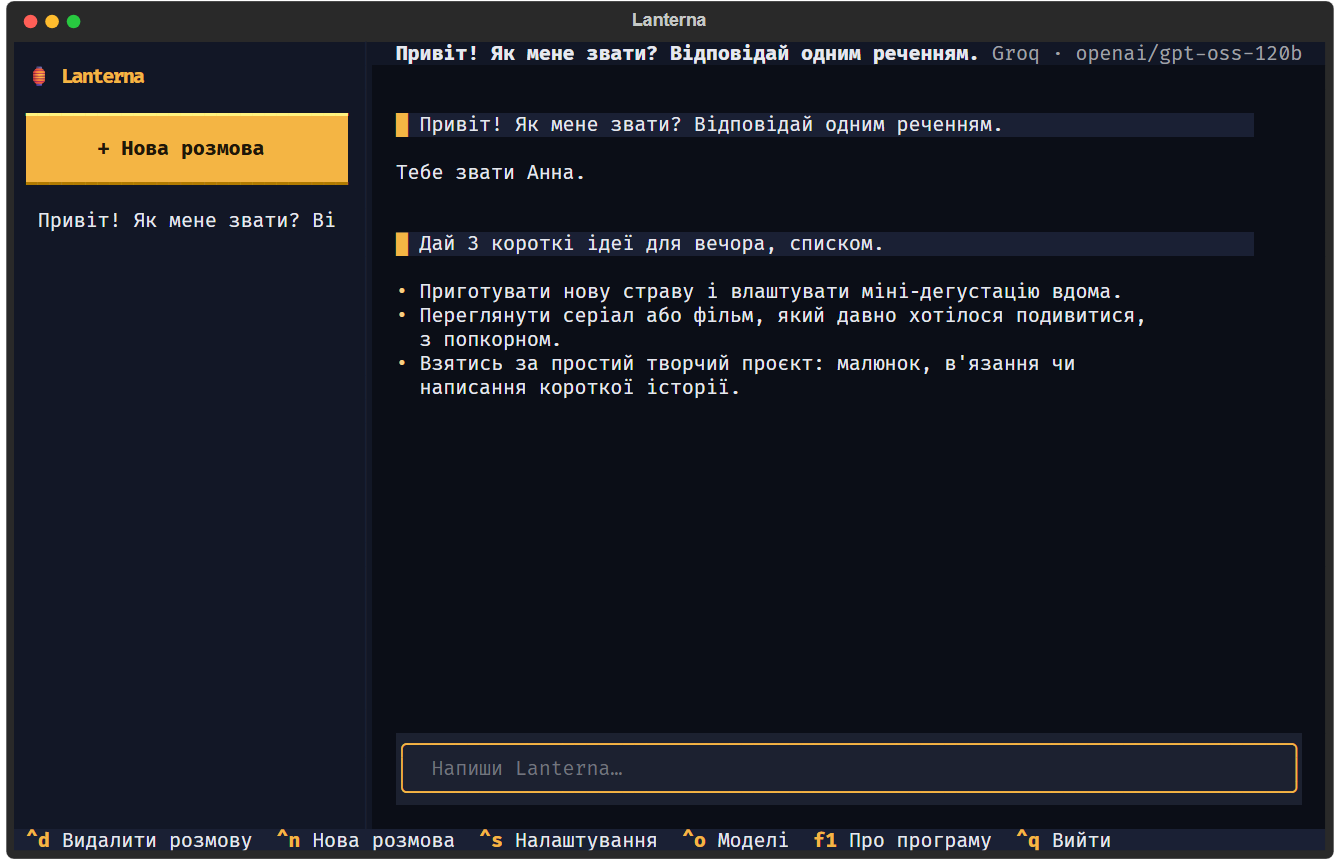
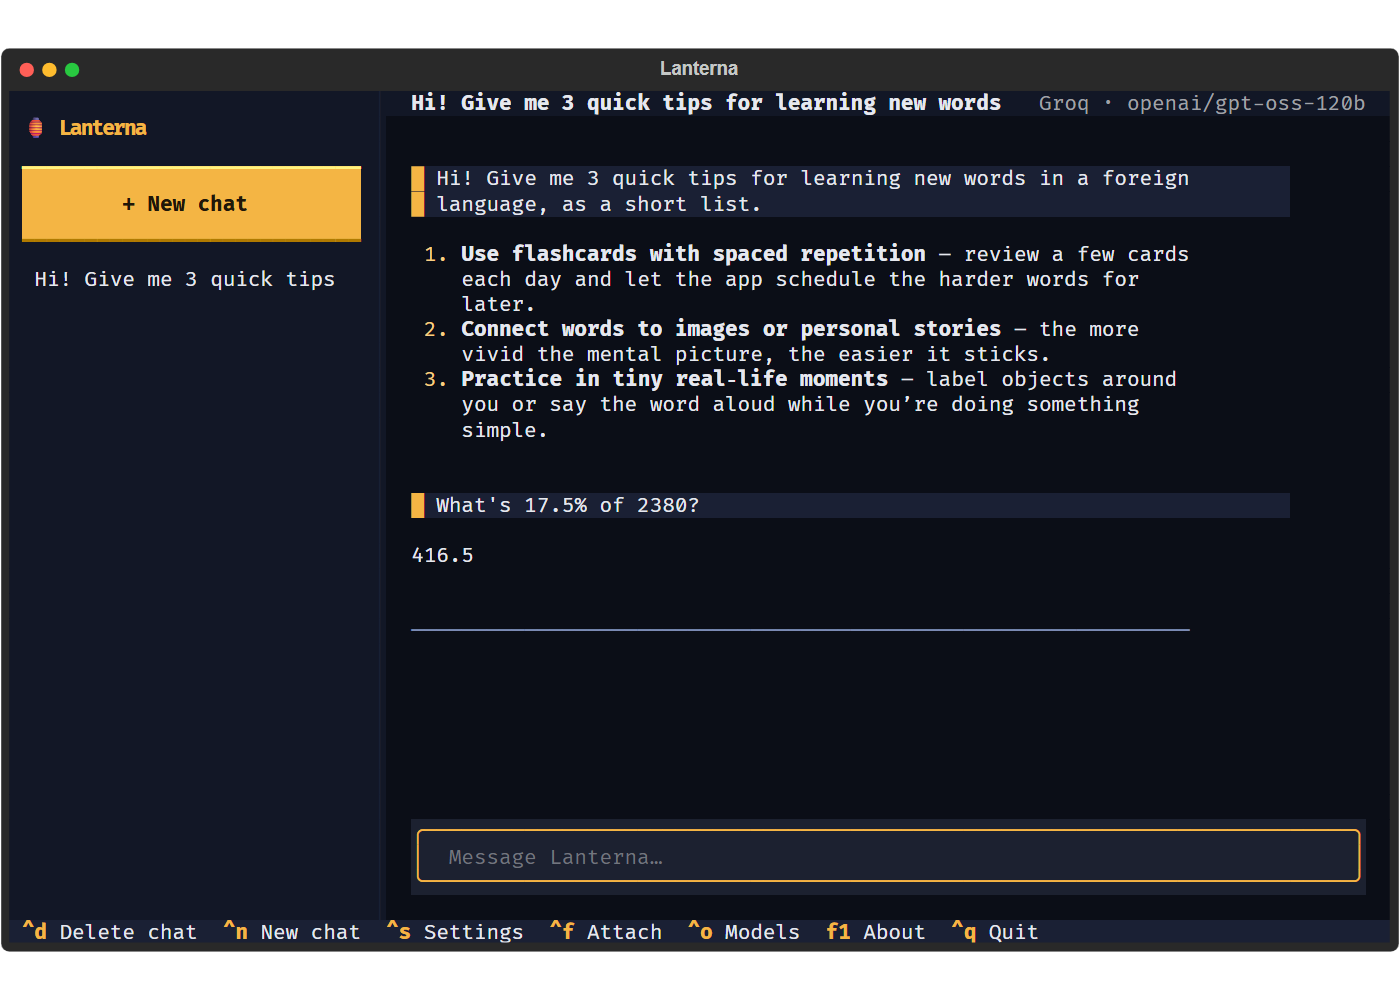
README in English with clear Ubuntu/GNOME steps; app menu launcher
- All screenshots retaken in English (window and terminal), real conversation
- Install section: step by step for Windows and Ubuntu/GNOME (pipx + git), links at the top
- `lanterna desktop` adds Lanterna to the GNOME app menu (~/.local/share, no sudo); --remove
- Terminal app: model list no longer squeezed in small terminals; space between title and model
- CI: the README's Ubuntu steps on clean Ubuntu 22.04 and 24.04 (pipx install, launcher, TUI start)

diff --git a/tools/screenshots.py b/tools/screenshots.py
@@ -1,11 +1,13 @@
-"""Takes the README screenshots of the window app with headless Chrome (dev server, temporary settings).
+"""Takes the README screenshots in English: window app (headless Chrome) and terminal app (Textual SVG -> PNG).
 
-    python tools/screenshots.py            # writes docs/screen-*.png
+    GROQ_API_KEY=... python tools/screenshots.py     # writes docs/screen-*.png
 
-Uses a temporary settings folder, so your own chats, memory and keys are never shown.
+Uses a temporary settings folder, so your own chats, memory and keys are never shown. With a Groq key in the
+environment it first has a short real conversation, so the chat screenshots show a real answer.
 """
 from __future__ import annotations
 
+import asyncio
 import json
 import os
 import shutil
@@ -13,35 +15,88 @@ import subprocess
 import sys
 import tempfile
 import threading
+import time
 from pathlib import Path
 
 ROOT = Path(__file__).resolve().parents[1]
+DOCS = ROOT / "docs"
 CHROME = [r"C:\Program Files\Google\Chrome\Application\chrome.exe", "google-chrome", "chromium", "chromium-browser"]
-SHOTS = {"local": "screen-local.png", "settings": "screen-modes.png", "about": "screen-about.png"}
+QUESTIONS = ["Hi! Give me 3 quick tips for learning new words in a foreign language, as a short list.",
+             "What's 17.5% of 2380?"]
+
+
+def chrome_shot(chrome: str, url: str, out: Path, size: str, profile: str) -> None:
+    subprocess.run([chrome, "--headless=new", "--disable-gpu", "--hide-scrollbars", f"--window-size={size}",
+                    "--virtual-time-budget=9000", f"--user-data-dir={profile}", f"--screenshot={out}", url],
+                   capture_output=True, timeout=120)
+    print(out.name, out.exists())
+
+
+def talk(api) -> None:
+    tid = api.new_thread()["id"]
+    for q in QUESTIONS:
+        sid = api.send(tid, q)["stream"]
+        for _ in range(600):
+            p = api.poll(sid)
+            if p.get("done"):
+                if p.get("error"):
+                    print("model error:", p["error"])
+                break
+            time.sleep(0.1)
+
+
+async def tui_shots(api, folder: Path) -> None:
+    from lanterna.tui import LanternaApp, LocalScreen
+    app = LanternaApp(api=api)
+    async with app.run_test(size=(110, 34)) as pilot:
+        for _ in range(100):
+            await pilot.pause(0.1)
+            if type(app.screen).__name__ == "ChatScreen" and app.screen.query("#composer"):
+                break
+        await pilot.pause(1.0)
+        app.save_screenshot("tui_chat.svg", path=str(folder))
+        api.save_settings({"mode": "auto"})
+        app.push_screen(LocalScreen())
+        for _ in range(100):
+            await pilot.pause(0.1)
+            if app.screen.query("#pull-0"):
+                break
+        await pilot.pause(0.8)
+        app.save_screenshot("tui_local.svg", path=str(folder))
 
 
 def main() -> int:
     home = tempfile.mkdtemp(prefix="lanterna_shots_")
     os.environ["LANTERNA_HOME"] = home
-    Path(home, "settings.json").write_text(json.dumps({"lang": "en", "name": "Anna", "mode": "auto",
+    Path(home, "settings.json").write_text(json.dumps({"lang": "en", "name": "Anna", "mode": "cloud",
                                                        "provider": "groq", "onboarded": True}), encoding="utf-8")
     sys.path.insert(0, str(ROOT / "src"))
     from lanterna.app import Api
     from lanterna.gui import make_server
 
-    srv, url = make_server(Api(scheduler=False), 0)
-    threading.Thread(target=srv.serve_forever, daemon=True).start()
     chrome = next((c for c in CHROME if Path(c).exists() or shutil.which(c)), None)
     if not chrome:
         print("Chrome not found")
         return 1
-    for view, name in SHOTS.items():
-        out = ROOT / "docs" / name
-        subprocess.run([chrome, "--headless=new", "--disable-gpu", "--hide-scrollbars", "--window-size=1120,780",
-                        "--virtual-time-budget=9000", f"--user-data-dir={home}\\chrome", f"--screenshot={out}",
-                        f"{url}&view={view}"], capture_output=True, timeout=120)
-        print(out, out.exists())
+    api = Api(scheduler=False)
+    if os.getenv("GROQ_API_KEY"):
+        talk(api)
+    srv, url = make_server(api, 0)
+    threading.Thread(target=srv.serve_forever, daemon=True).start()
+    profile = str(Path(home, "chrome"))
+    if os.getenv("GROQ_API_KEY"):
+        chrome_shot(chrome, url, DOCS / "screen-chat.png", "1120,760", profile)
+    api.save_settings({"mode": "auto"})
+    for view, name in {"local": "screen-local.png", "settings": "screen-modes.png", "about": "screen-about.png"}.items():
+        chrome_shot(chrome, f"{url}&view={view}", DOCS / name, "1120,780", profile)
     srv.shutdown()
+
+    svg = Path(home, "svg")
+    svg.mkdir()
+    api.save_settings({"mode": "cloud"})                 # the chat answers above came from the cloud
+    asyncio.run(tui_shots(api, svg))
+    for name, out in (("tui_chat.svg", "screen-terminal.png"), ("tui_local.svg", "screen-terminal-local.png")):
+        chrome_shot(chrome, (svg / name).as_uri(), DOCS / out, "1400,1000", profile)
     return 0
 
 

diff --git a/src/lanterna/desktop.py b/src/lanterna/desktop.py
@@ -1,0 +1,66 @@
+"""Adds Lanterna to the app menu on Linux desktops (GNOME, KDE, …): a .desktop launcher plus the icon.
+
+    lanterna desktop           # add (or update) the launcher
+    lanterna desktop --remove  # take it away again
+
+Only touches files in the user's own folder (~/.local/share). Nothing needs sudo.
+"""
+from __future__ import annotations
+
+import os
+import shutil
+import sys
+from pathlib import Path
+
+ICON_SRC = Path(__file__).parent / "ui" / "logo.svg"
+
+
+def _share() -> Path:
+    return Path(os.getenv("XDG_DATA_HOME") or Path.home() / ".local" / "share")
+
+
+def paths() -> tuple[Path, Path]:
+    share = _share()
+    return share / "applications" / "lanterna.desktop", share / "icons" / "hicolor" / "scalable" / "apps" / "lanterna.svg"
+
+
+def launcher_text(command: str) -> str:
+    return "\n".join([
+        "[Desktop Entry]",
+        "Type=Application",
+        "Name=Lanterna",
+        "GenericName=AI assistant",
+        "Comment=A friendly AI assistant on free cloud models or your own local models",
+        "Comment[uk]=Дружній ШІ-асистент на безкоштовних хмарних або твоїх локальних моделях",
+        "Comment[it]=Un assistente IA amichevole con modelli cloud gratuiti o locali",
+        f"Exec={command}",
+        "Icon=lanterna",
+        "Terminal=true",                     # the full-screen app runs in the default terminal (GNOME Console/Terminal)
+        "Categories=Utility;Chat;",
+        "Keywords=AI;assistant;chat;LLM;Ollama;",
+        "StartupNotify=true",
+        "",
+    ])
+
+
+def install() -> tuple[Path, Path]:
+    exe = shutil.which("lanterna")
+    command = f'"{exe}"' if exe else f'"{sys.executable}" -m lanterna.cli'
+    desk, icon = paths()
+    desk.parent.mkdir(parents=True, exist_ok=True)
+    icon.parent.mkdir(parents=True, exist_ok=True)
+    desk.write_text(launcher_text(command), encoding="utf-8")
+    desk.chmod(0o755)
+    shutil.copyfile(ICON_SRC, icon)
+    if shutil.which("update-desktop-database"):
+        os.system(f'update-desktop-database "{desk.parent}" >/dev/null 2>&1')
+    return desk, icon
+
+
+def remove() -> bool:
+    found = False
+    for p in paths():
+        if p.exists():
+            p.unlink()
+            found = True
+    return found

diff --git a/src/lanterna/cli.py b/src/lanterna/cli.py
@@ -214,6 +214,8 @@ def main(argv: list[str] | None = None) -> int:
     lp = sub.add_parser("local", help="local models: what fits this computer, download with progress, pick the mode")
     lp.add_argument("action", nargs="?", choices=["info", "pull", "mode"], default="info")
     lp.add_argument("value", nargs="?", help="model name (pull) or cloud|local|auto (mode)")
+    dp = sub.add_parser("desktop", help="add Lanterna to the app menu (Linux: GNOME, KDE…)")
+    dp.add_argument("--remove", action="store_true")
     k = sub.add_parser("key")
     k.add_argument("action", choices=["set", "list", "delete"])
     k.add_argument("provider", nargs="?", choices=list(PROVIDERS))
@@ -227,6 +229,18 @@ def main(argv: list[str] | None = None) -> int:
         return show_models(s, a.refresh)
     if a.cmd == "local":
         return local_cmd(s, a.action, a.value)
+    if a.cmd == "desktop":
+        from . import desktop
+        if not sys.platform.startswith("linux"):
+            console.print(t("This command is for Linux. On Windows use the installer.", s.lang))
+            return 1
+        if a.remove:
+            desktop.remove()
+            console.print(t("Removed from the app menu.", s.lang))
+            return 0
+        desk, _ = desktop.install()
+        console.print(f"[green]✓[/] {t('Lanterna is in your app menu now. Press Super and type Lanterna.', s.lang)}\n[dim]{desk}[/]")
+        return 0
     if a.cmd == "key":
         if a.action == "list":
             for pid, p in PROVIDERS.items():

diff --git a/src/lanterna/i18n.py b/src/lanterna/i18n.py
@@ -189,4 +189,11 @@ _T.update({
     "Model name?": {"uk": "Яка назва моделі?", "it": "Nome del modello?"},
     "Ollama is not running. Install it from {url}": {"uk": "Ollama не запущена. Встанови її звідси: {url}",
                                                      "it": "Ollama non è attivo. Installalo da {url}"},
+    "This command is for Linux. On Windows use the installer.": {
+        "uk": "Ця команда для Linux. На Windows скористайся інсталятором.",
+        "it": "Questo comando è per Linux. Su Windows usa il programma di installazione."},
+    "Removed from the app menu.": {"uk": "Прибрано з меню програм.", "it": "Rimosso dal menu delle app."},
+    "Lanterna is in your app menu now. Press Super and type Lanterna.": {
+        "uk": "Lanterna тепер у меню програм. Натисни Super і введи Lanterna.",
+        "it": "Lanterna ora è nel menu delle app. Premi Super e scrivi Lanterna."},
 })

diff --git a/tests/test_release.py b/tests/test_release.py
@@ -95,3 +95,15 @@ def test_selfcheck_report(tmp_path):
     rep = json.loads(out.read_text(encoding="utf-8"))
     assert rep["ui"] is True and rep["version"] == __version__ and rep["pypdf"] == "ok"
     assert re.match(r"\d+\.\d+\.\d+", rep["version"])
+
+
+def test_desktop_launcher_for_gnome(tmp_path, monkeypatch):
+    from lanterna import desktop
+    monkeypatch.setenv("XDG_DATA_HOME", str(tmp_path))
+    desk, icon = desktop.install()
+    text = desk.read_text(encoding="utf-8")
+    assert desk == tmp_path / "applications" / "lanterna.desktop" and icon.is_file()
+    assert "Name=Lanterna" in text and "Terminal=true" in text and "Icon=lanterna" in text
+    exec_line = next(l for l in text.splitlines() if l.startswith("Exec="))
+    assert "lanterna" in exec_line
+    assert desktop.remove() and not desk.exists() and not icon.exists()

diff --git a/src/lanterna/tui.py b/src/lanterna/tui.py
@@ -52,7 +52,7 @@ Screen { background: $background; }
 #main { width: 1fr; }
 #topbar { height: 1; padding: 0 2; background: $surface; }
 #chattitle { width: 1fr; text-style: bold; }
-#model { color: $text-muted; width: auto; }
+#model { color: $text-muted; width: auto; padding-left: 2; }
 #log { padding: 1 2; height: 1fr; }
 .msg-user { background: $panel; border-left: thick $primary; padding: 0 1; margin: 1 0 0 0; width: 1fr; }
 .msg-bot { margin: 1 8 0 0; padding: 0; }
@@ -82,6 +82,7 @@ Button:focus { text-style: bold; }
 .lrow Button { min-width: 22; }
 #ollama-btns { height: auto; }
 #picks { height: auto; }
+#lmodels { height: auto; }
 .modes { height: auto; width: 100%; }
 .modes Button { margin: 0 1 0 0; }
 """

diff --git a/README.md b/README.md
@@ -6,7 +6,9 @@
 
 > **Status: first public preview (v0.1.0).** Windows window app and a full-screen terminal app for Ubuntu, with memory, reminders, web search, weather, files and photos, free-model discovery with fallback, and optional local models through Ollama. Expect rough edges — [issues](../../issues) are welcome.
 
-<p align="center"><img src="docs/screen-chat.jpg" width="720" alt="Lanterna chat window"></p>
+<p align="center"><b><a href="#windows-10--11">⬇ Install on Windows</a></b> · <b><a href="#ubuntu--gnome">🐧 Install on Ubuntu / GNOME</a></b></p>
+
+<p align="center"><img src="docs/screen-chat.png" width="760" alt="Lanterna chat window"></p>
 
 ## Why
 
@@ -20,19 +22,43 @@ Running a good model locally needs a strong graphics card. Lanterna lets anyone 
 
 ## Install
 
-**Windows 10 / 11.** Download `Lanterna-Setup-x.y.z.exe` from the [latest release](../../releases/latest) and run it. No admin rights needed; it adds Lanterna to the Start menu. A portable zip is there too.
+### Windows 10 / 11
 
-> Windows will say **"Windows protected your PC" / Unknown publisher**: the installer isn't code-signed (signing costs money). Click **More info → Run anyway**. The installer is built from this repository by the [release workflow](.github/workflows/release.yml), so you can check what's inside.
+1. Open the [latest release](../../releases/latest) and download **`Lanterna-Setup-x.y.z.exe`**.
+2. Run it. No admin rights needed; Lanterna appears in the Start menu.
 
-**Ubuntu / GNOME** (or any Linux with Python 3.10+):
+> Windows will say **"Windows protected your PC" / Unknown publisher**: the installer isn't code-signed (signing costs money). Click **More info → Run anyway**. The installer is built from this repository by the [release workflow](.github/workflows/release.yml), so you can check what's inside. Prefer no installer? Take the portable zip from the same release.
+
+### Ubuntu / GNOME
+
+Works on Ubuntu 22.04 or newer (and other Linux with Python 3.10+). It's a full-screen app that runs in the terminal, with mouse support.
+
+**1.** Open a terminal (<kbd>Ctrl</kbd>+<kbd>Alt</kbd>+<kbd>T</kbd>) and install pipx and git (once). Then close the terminal and open a new one:
 
 ```bash
-sudo apt install pipx
-pipx install git+https://github.com/mikybuilds/lanterna
-lanterna
+sudo apt update && sudo apt install -y pipx git
+pipx ensurepath
 ```
 
+**2.** Install Lanterna:
+
+```bash
+pipx install git+https://github.com/mikybuilds/lanterna
+```
+
+**3.** Add it to the GNOME app menu (optional), then open it with <kbd>Super</kbd> → type *Lanterna*:
+
+```bash
+lanterna desktop
+```
+
+Or just type `lanterna` in any terminal.
+
+Update: `pipx upgrade lanterna` · Remove: `lanterna desktop --remove && pipx uninstall lanterna`
+
 Keys are kept in GNOME Keyring. On a server without a keyring, set the key as an environment variable instead (e.g. `GROQ_API_KEY`).
+
+### First launch
 
 On first launch you pick a language, your name and your first free service:
 
